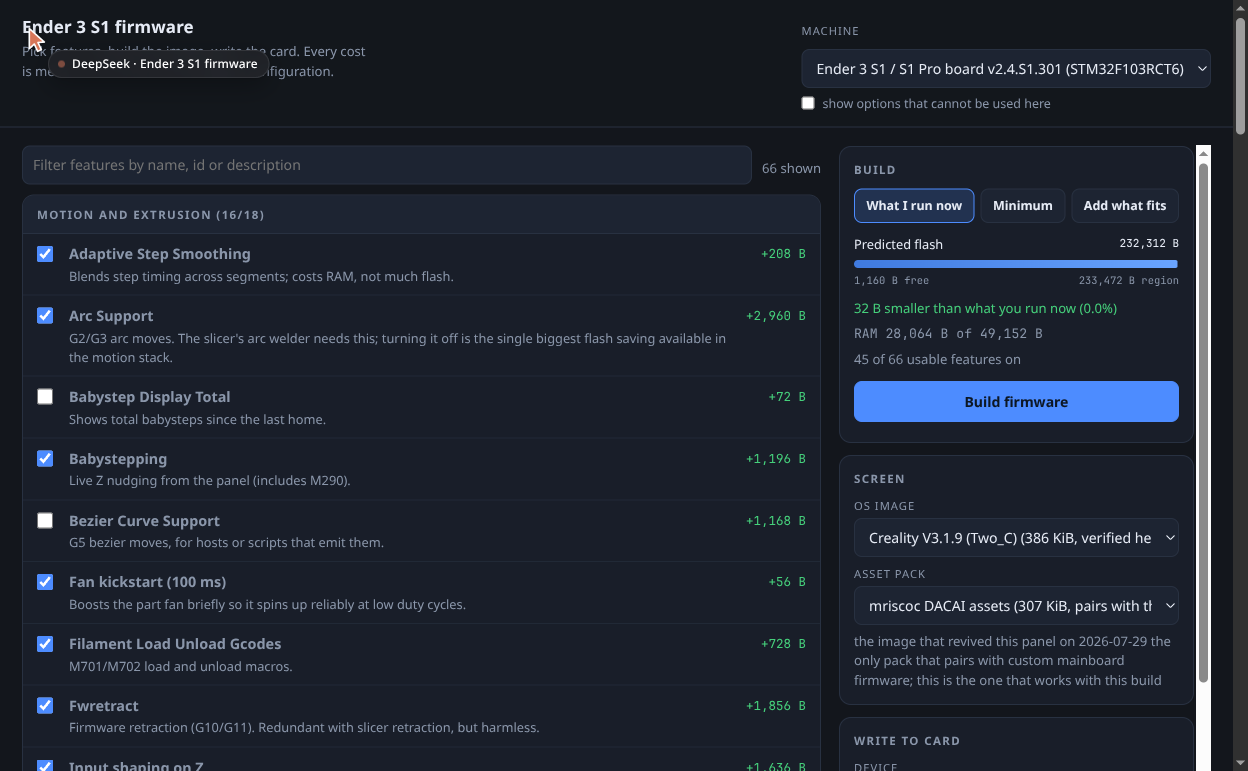
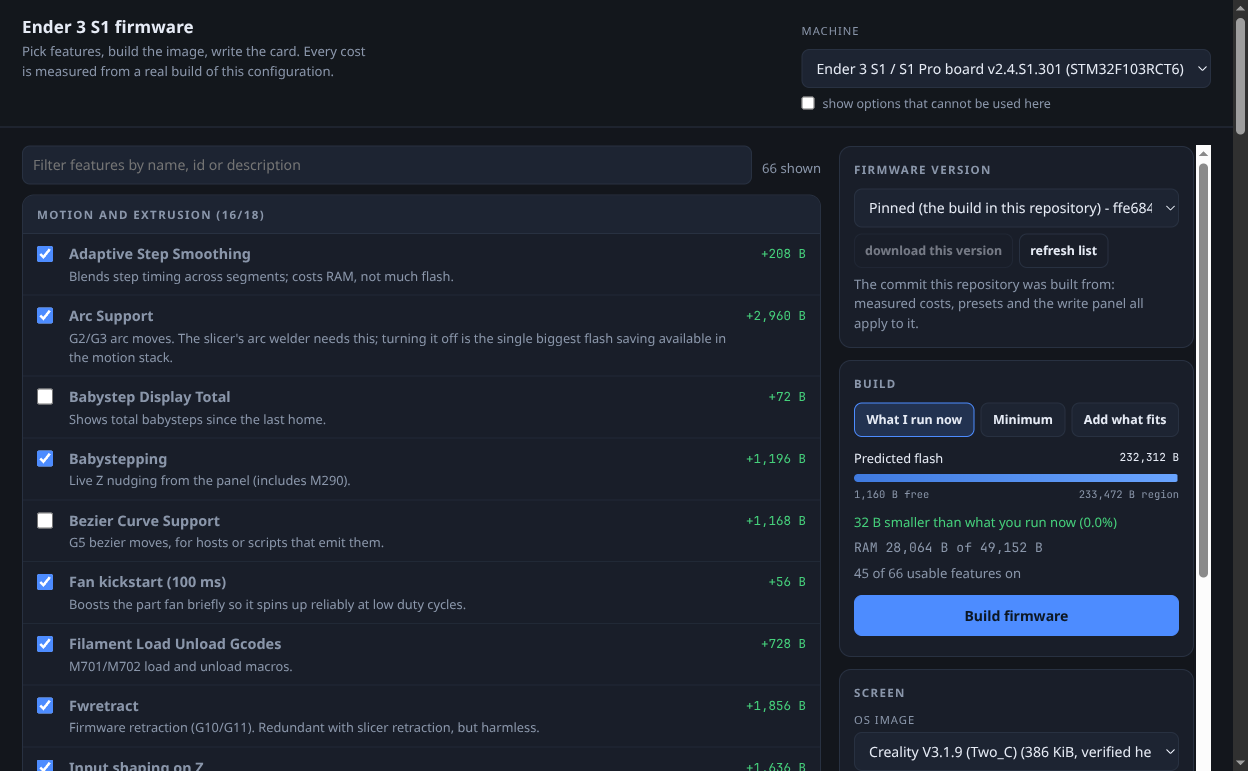
Docs: version selection end to end, and what it honestly cannot do
The root README gains a subsection on picking a release or branch, the
configurator README gains a Firmware versions section, and the Limits section
now records what was actually observed: 20260106 and the September 2026 branch
build, 20220719 stops at the dependency scan because 2022 has no DGUS_UI_IS
and no ProUIex, and downloads are shallow clones of about 200 MB.

Screenshots refreshed: the UI shot shows the version card, and
configurator-versions.png shows a downloaded release in the not-measured
state.

diff --git a/tools/configurator/render_readme.py b/tools/configurator/render_readme.py
@@ -243,6 +243,9 @@ features.json  ->  apply_features.py  ->  PlatformIO  ->  firmware.bin + manifes
 * **This service runs a compiler.** It binds to @BT@127.0.0.1@BT@ and has no authentication. Do not expose it to a network you do not control.
 * **One job at a time**, queue depth 4. A cold tree is refused with a pointer to @BT@./scripts/bootstrap.sh@BT@.
 * **Curated, not exhaustive.** Marlin has hundreds of options; the catalogue carries the ones that mean something on this machine. Adding another is one entry plus one measurement run.
+* **Other versions are compiled, not measured.** The page predicts only for the pinned tree, because a cost belongs to the tree it was measured on. For every other version the result panel reports the size the linker produced and nothing more.
+* **Old trees hit vocabulary drift.** Tolerant application skips defines a tree does not contain, but it cannot translate a configuration written for a newer Marlin into an older one: `20260106` (January 2026) and `Ender3V2S1-Bugfix` (September 2026) both build, while `20220719` fails the dependency scan with the tree's own error, HAS_GCODE_PREVIEW requires ProUIex - the 2022 tree has no DGUS_UI_IS macro and no ProUIex. The failure names itself in the log and no image is produced.
+* **Downloads are shallow clones.** About 200 MB per release tag into `build/sources/`, kept until you delete the directory; the version list itself is one cached GitHub API call.
 * **Marginal costs.** Each price is the cost of that feature against the two baselines above; two features that share code can interact by a few bytes of alignment. The result panel always shows the exact measured size of the selection you built, so the prediction is a planning aid, not a promise.
 
 ## Serverless variant

diff --git a/README.md b/README.md
@@ -157,7 +157,7 @@ The page also builds mriscoc releases and branches that are not in this reposito
 | a release tag, e.g. `20260106` | **not measured** | *download this version* puts a shallow clone in `build/sources/`, then the same compile runs against that tree |
 | a branch, e.g. `Ender3V2S1-Bugfix` | **not measured** | same, at the commit the branch points to today |
 
-Measured costs are a property of the pinned tree, so no prediction is claimed for any other version: the budget line reads *not measured* and the result reports what the linker produced. Builds against other trees are tolerant - an option the tree does not contain is skipped and listed in the manifest (`skipped`) instead of breaking the compile - and the page lists the options that version has which the pinned release does not, before you build.
+Measured costs are a property of the pinned tree, so no prediction is claimed for any other version: the budget line reads *not measured* and the result reports what the linker produced. Very old trees stop at the dependency scan for a reason they name themselves - 2022 predates `DGUS_UI_IS` and ProUIex, so it cannot compile this configuration, and no image is produced. Builds against other trees are tolerant - an option the tree does not contain is skipped and listed in the manifest (`skipped`) instead of breaking the compile - and the page lists the options that version has which the pinned release does not, before you build.
 
 ![Firmware version selector](docs/img/configurator-versions.png)
 
@@ -257,7 +257,7 @@ account action this machine cannot perform on its own. It never force-pushes.
 | [docs/TROUBLESHOOTING.md](docs/TROUBLESHOOTING.md) | Every failure this machine produced, with symptom, cause and fix |
 | [docs/DESIGN-NOTES.md](docs/DESIGN-NOTES.md) | What was enabled, what was rejected, and what the flash budget bought |
 | [CHANGELOG.md](CHANGELOG.md) | Dated history from stock firmware to the current build |
-| [tools/configurator/README.md](tools/configurator/README.md) | The configurator: feature catalogue, compile service, measured prediction accuracy |
+| [tools/configurator/README.md](tools/configurator/README.md) | The configurator: feature catalogue, measured prediction accuracy, building any mriscoc release or branch |
 
 ## Compatibility - read before flashing
 

diff --git a/tools/configurator/README.md b/tools/configurator/README.md
@@ -285,6 +285,9 @@ features.json  ->  apply_features.py  ->  PlatformIO  ->  firmware.bin + manifes
 * **This service runs a compiler.** It binds to `127.0.0.1` and has no authentication. Do not expose it to a network you do not control.
 * **One job at a time**, queue depth 4. A cold tree is refused with a pointer to `./scripts/bootstrap.sh`.
 * **Curated, not exhaustive.** Marlin has hundreds of options; the catalogue carries the ones that mean something on this machine. Adding another is one entry plus one measurement run.
+* **Other versions are compiled, not measured.** The page predicts only for the pinned tree, because a cost belongs to the tree it was measured on. For every other version the result panel reports the size the linker produced and nothing more.
+* **Old trees hit vocabulary drift.** Tolerant application skips defines a tree does not contain, but it cannot translate a configuration written for a newer Marlin into an older one: `20260106` (January 2026) and `Ender3V2S1-Bugfix` (September 2026) both build, while `20220719` fails the dependency scan with the tree's own error, HAS_GCODE_PREVIEW requires ProUIex - the 2022 tree has no DGUS_UI_IS macro and no ProUIex. The failure names itself in the log and no image is produced.
+* **Downloads are shallow clones.** About 200 MB per release tag into `build/sources/`, kept until you delete the directory; the version list itself is one cached GitHub API call.
 * **Marginal costs.** Each price is the cost of that feature against the two baselines above; two features that share code can interact by a few bytes of alignment. The result panel always shows the exact measured size of the selection you built, so the prediction is a planning aid, not a promise.
 
 ## Serverless variant
